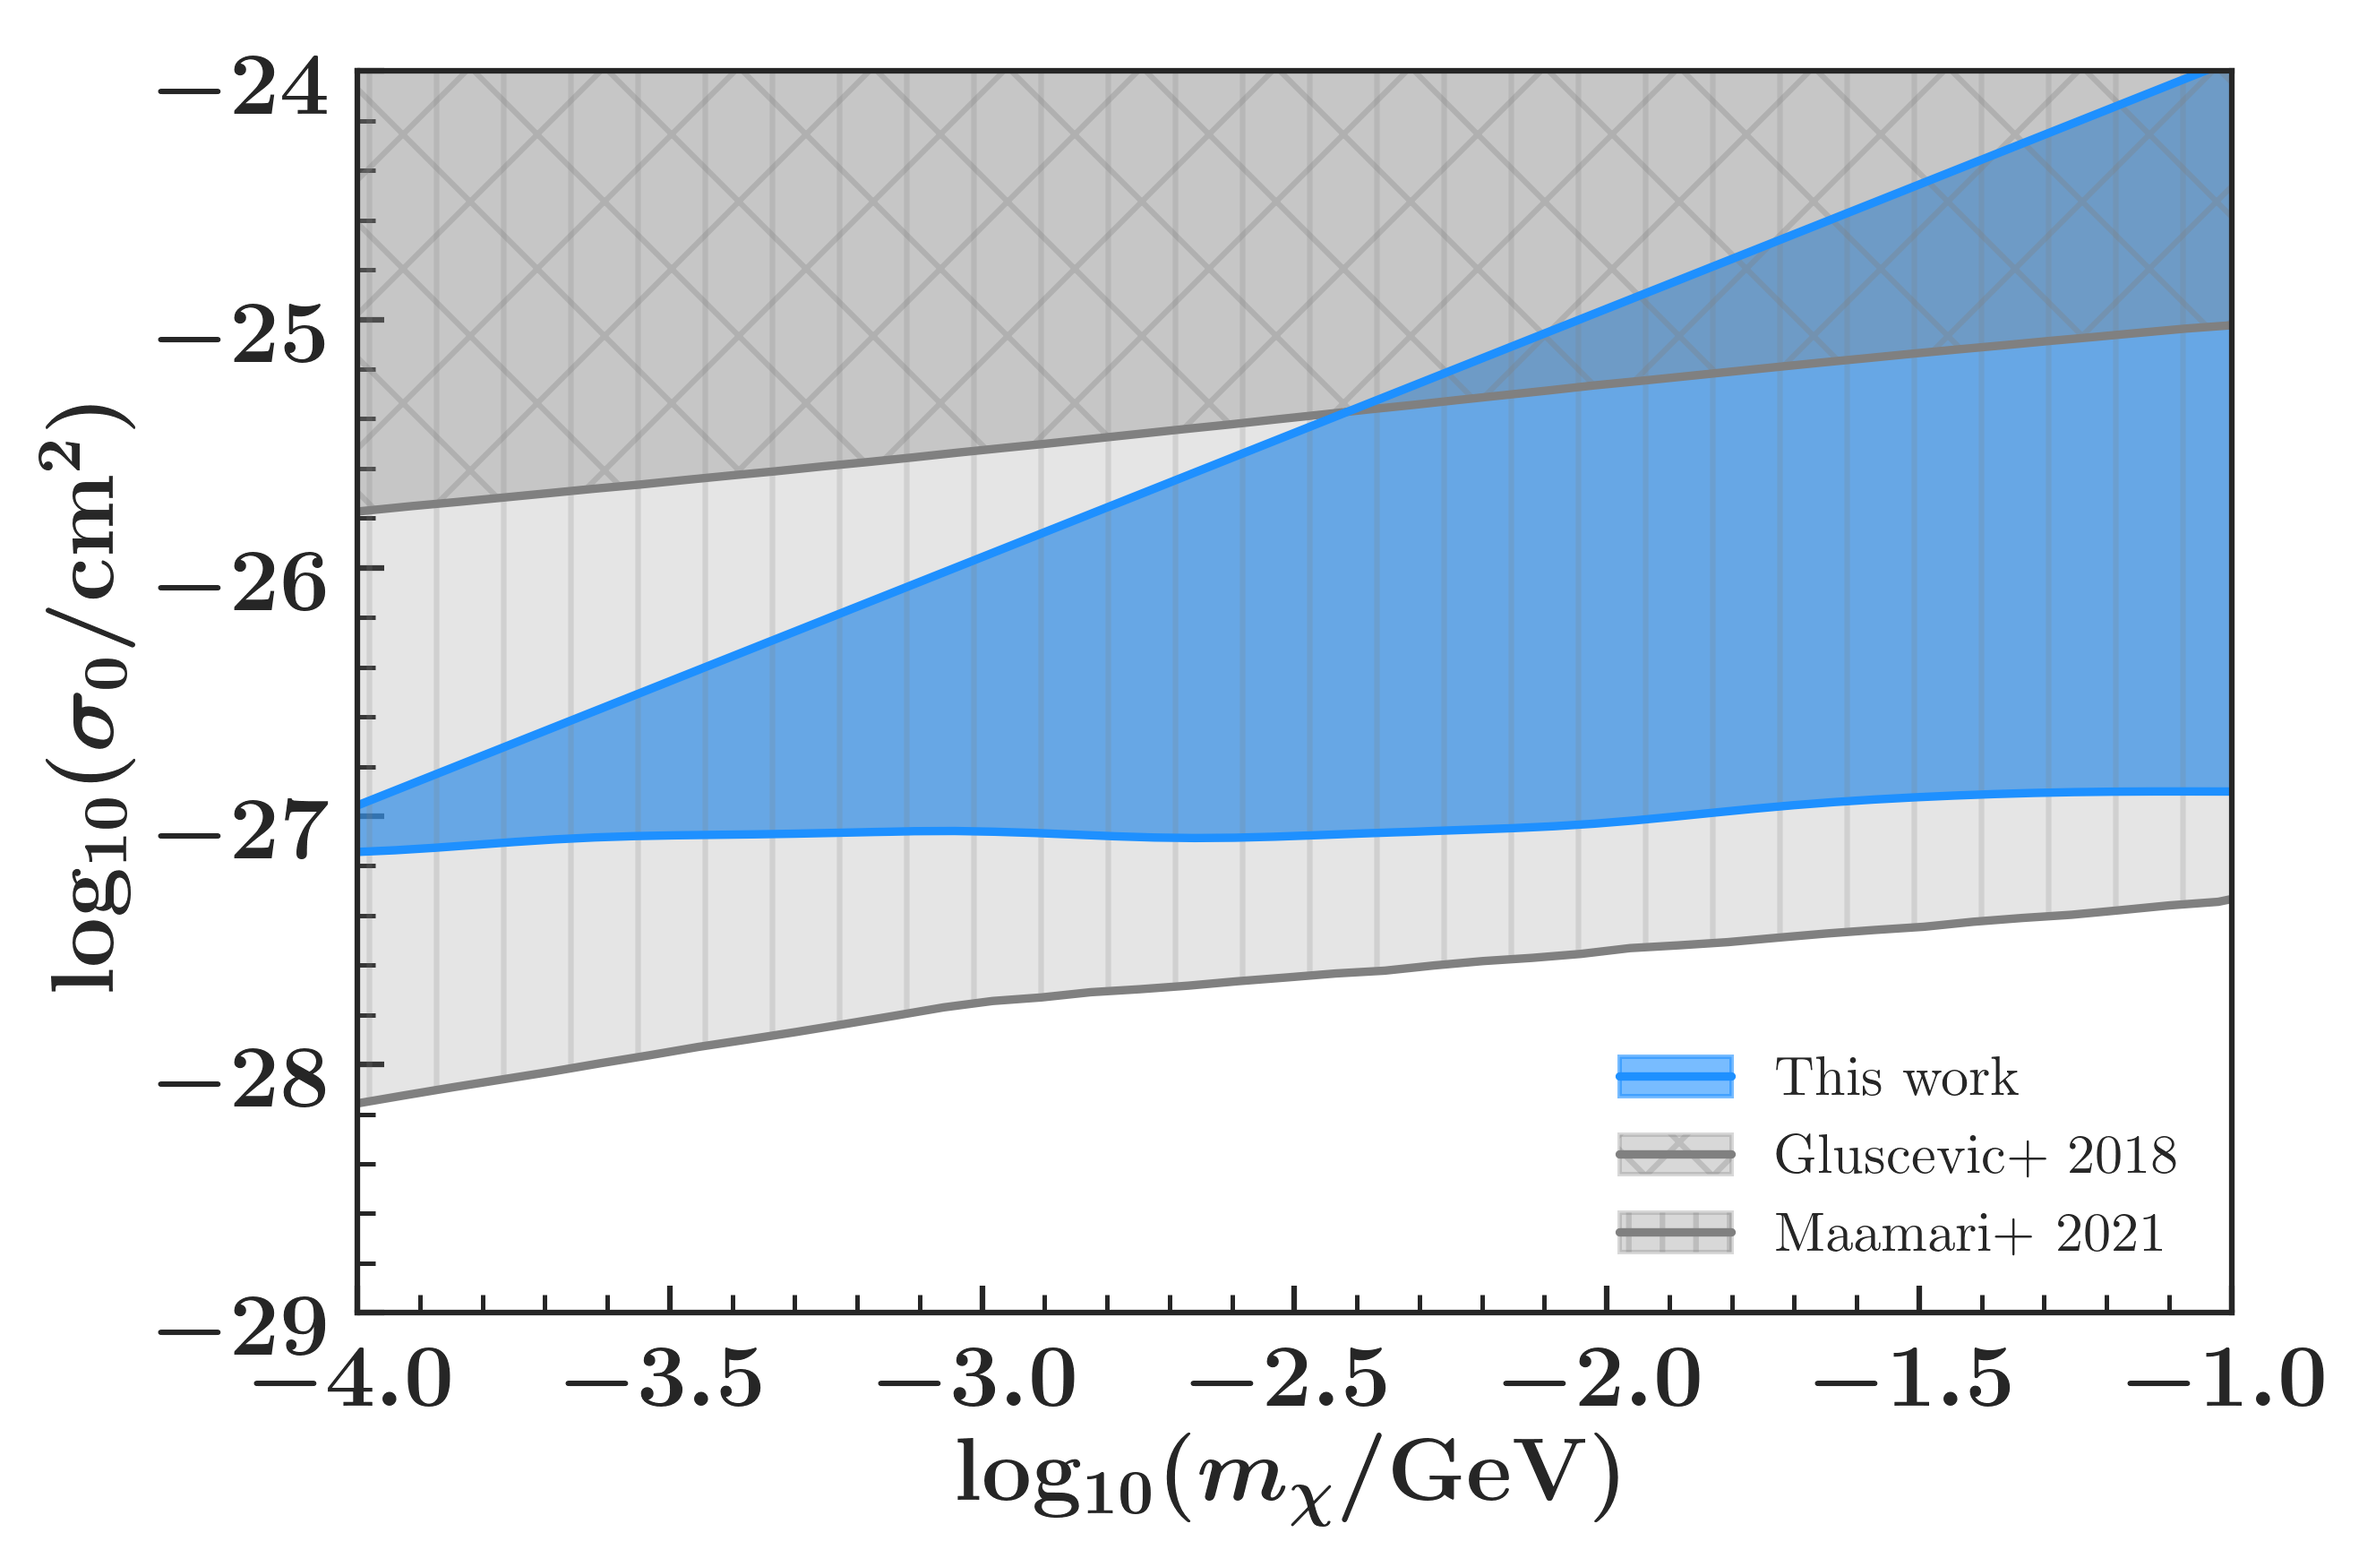
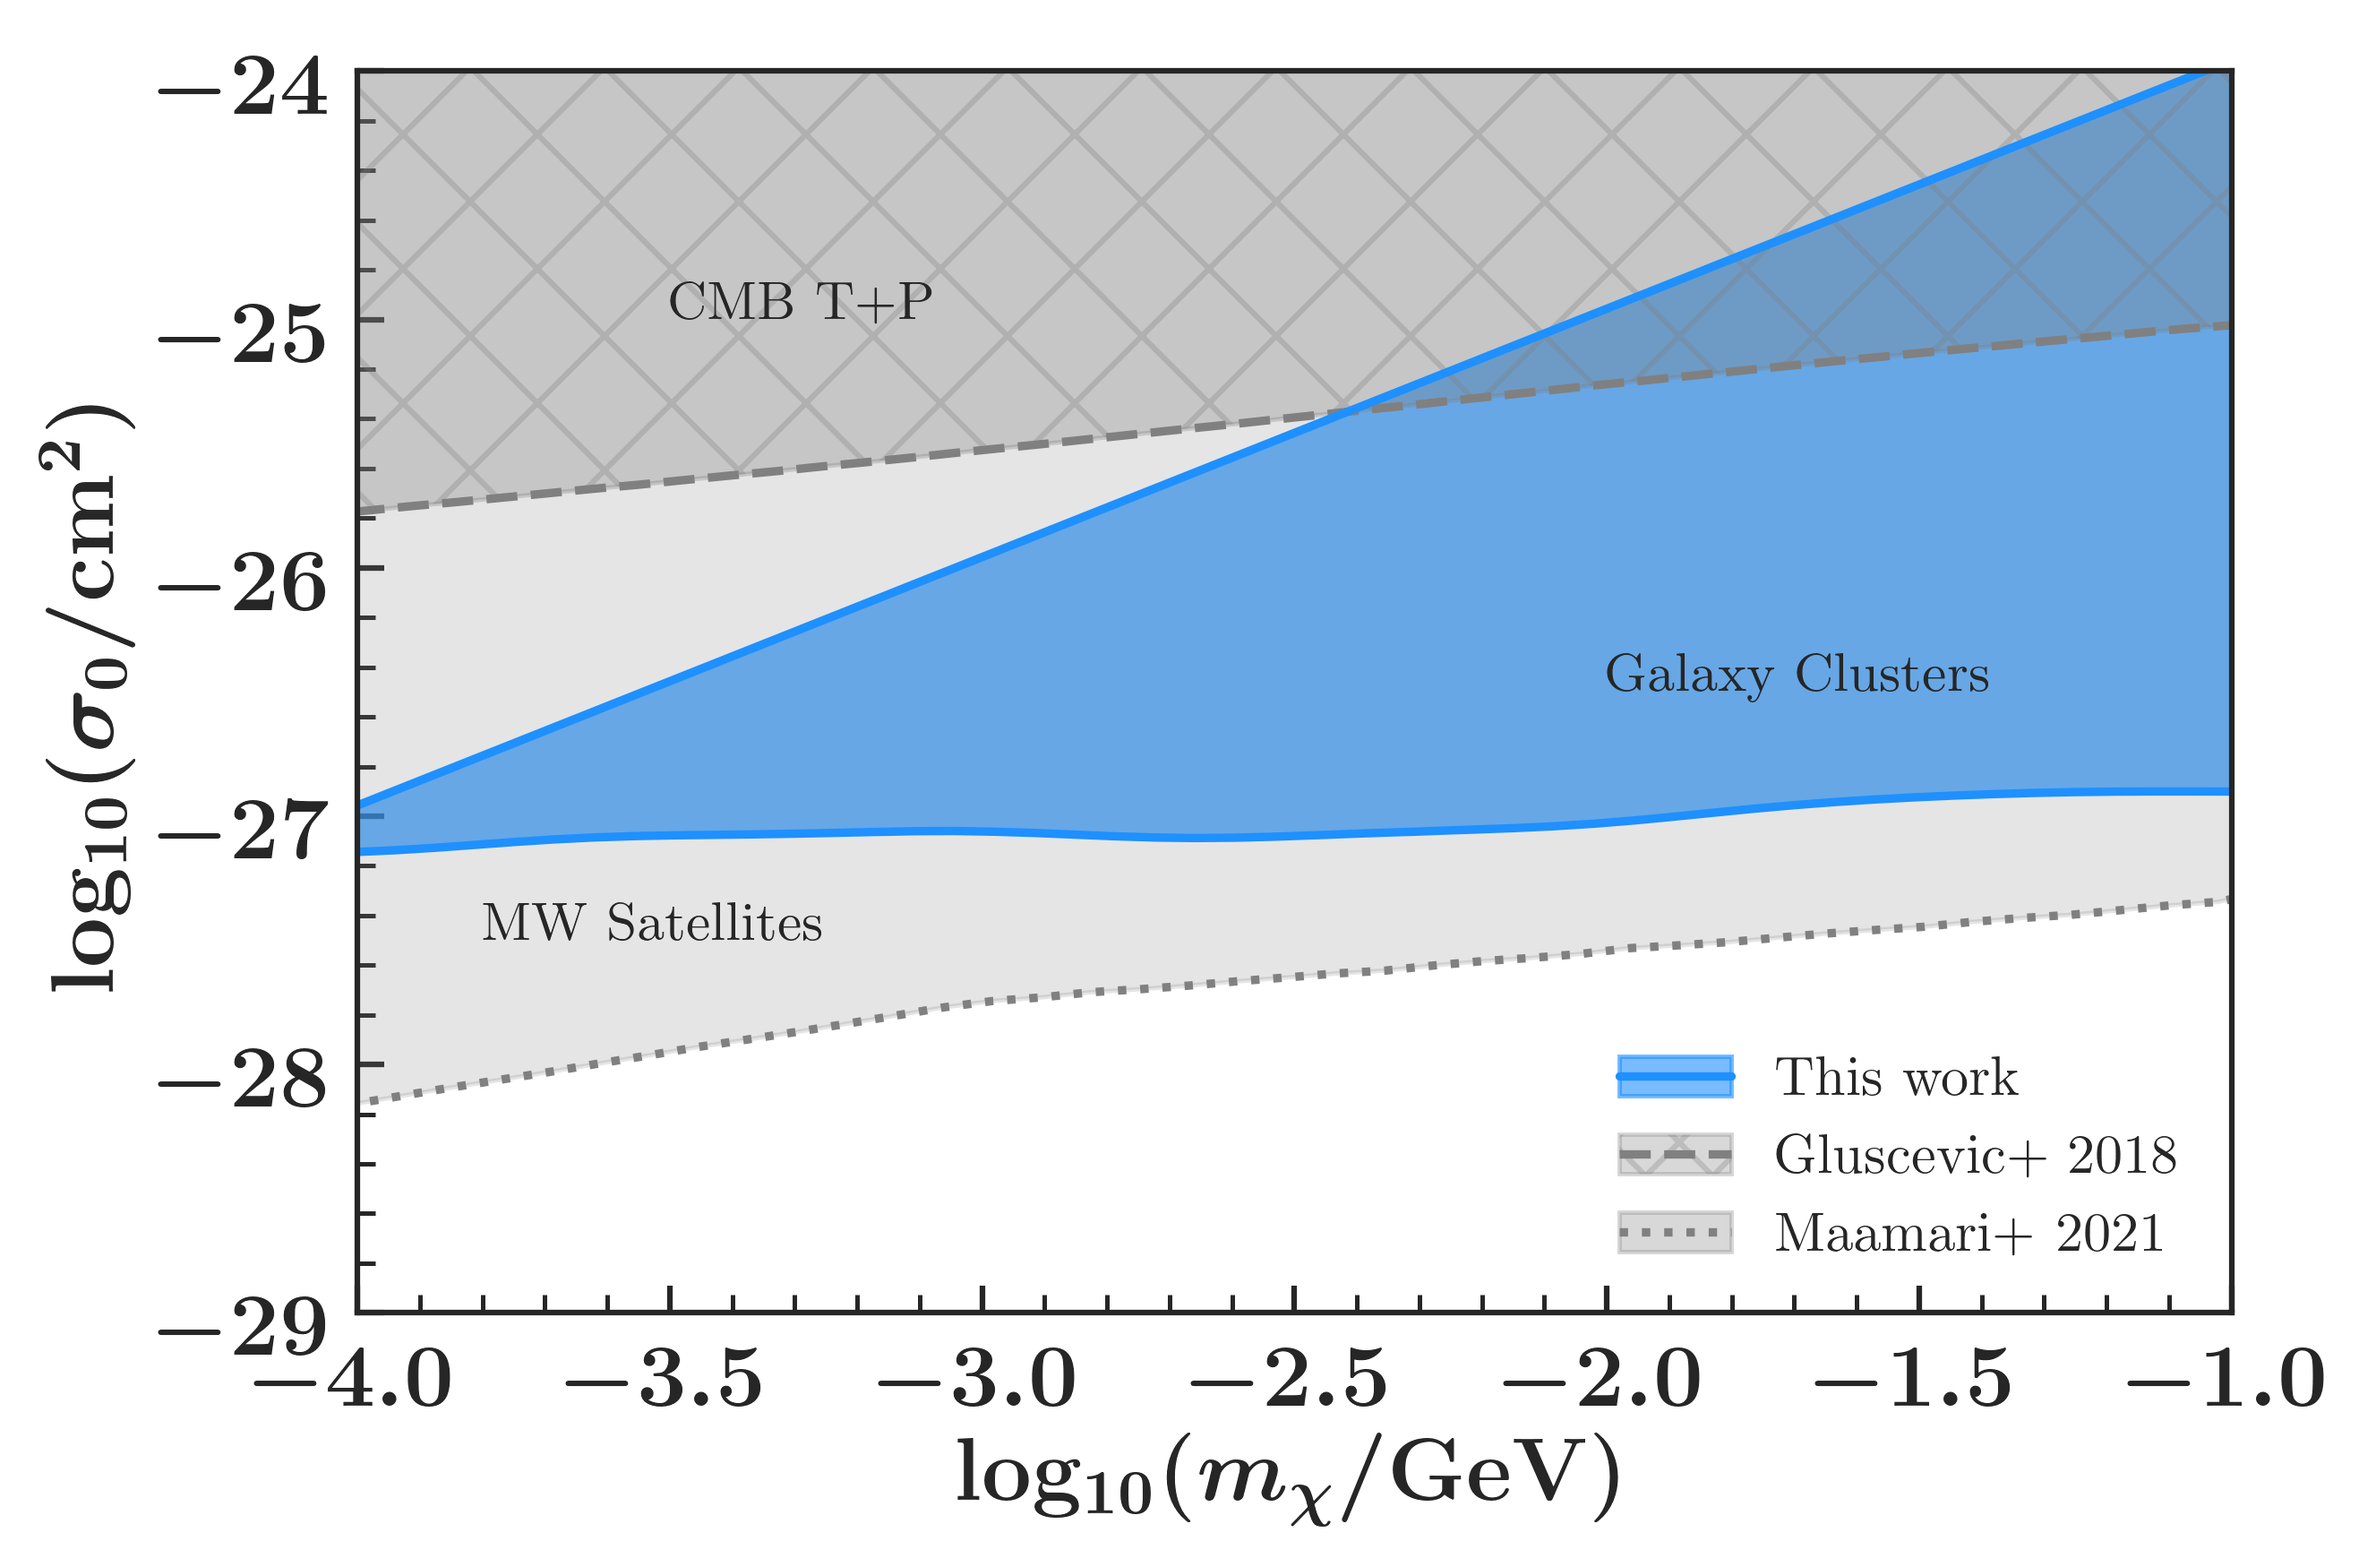
answered questions about dataset

diff --git a/cluster_energies.py b/cluster_energies.py
@@ -9,8 +9,8 @@ from asymmetric_uncertainty_mod import a_u
 class Energies:
     def __init__(self, cluster):
         self.cluster = cluster
-        self.abs_potential_energy = self.abs_potential_energy
-        self.thermal_energy_norm = self.thermal_energy_norm() # in MCMC this needs to be multiplied by T500 to get the thermal energy
+       # self.abs_potential_energy = self.abs_potential_energy
+       # self.thermal_energy_norm = self.thermal_energy_norm() # in MCMC this needs to be multiplied by T500 to get the thermal energy
 
 
     def thermal_energy_norm(self):
